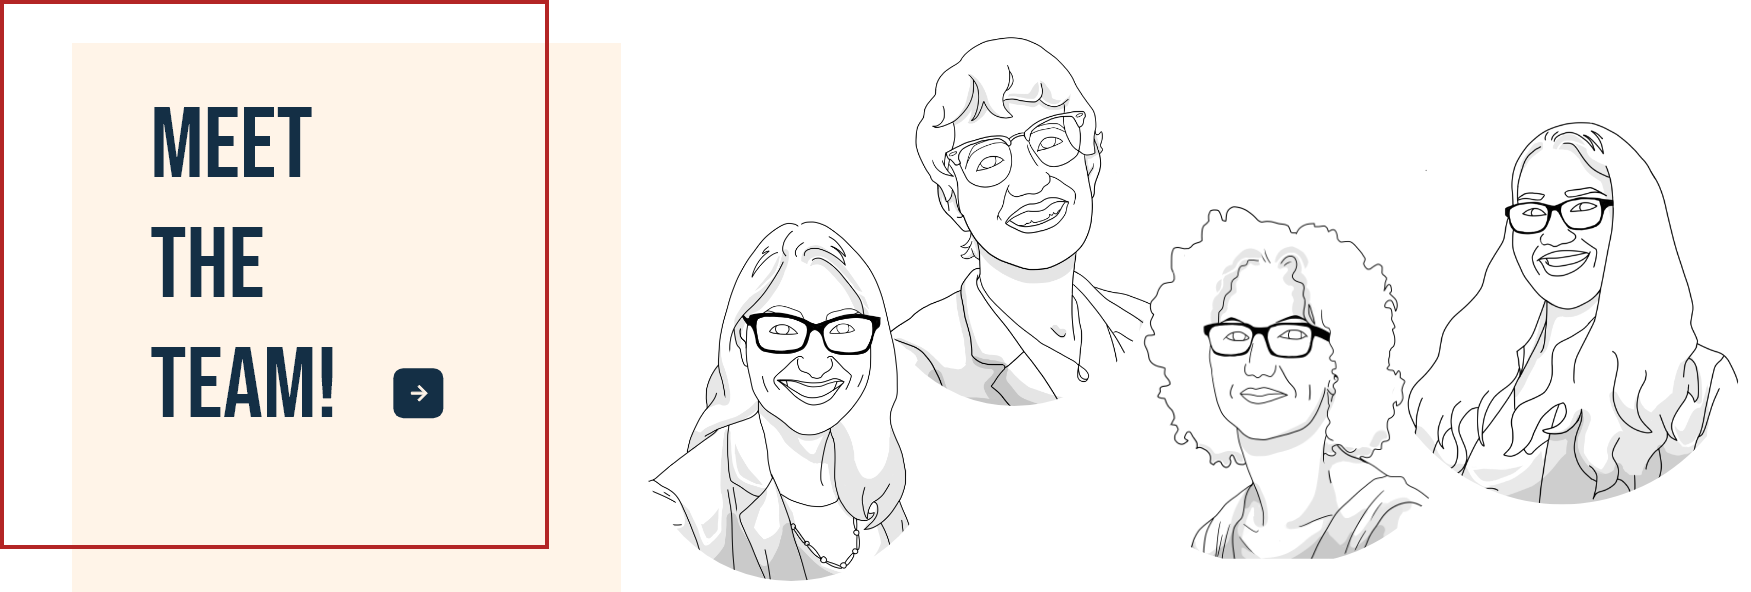
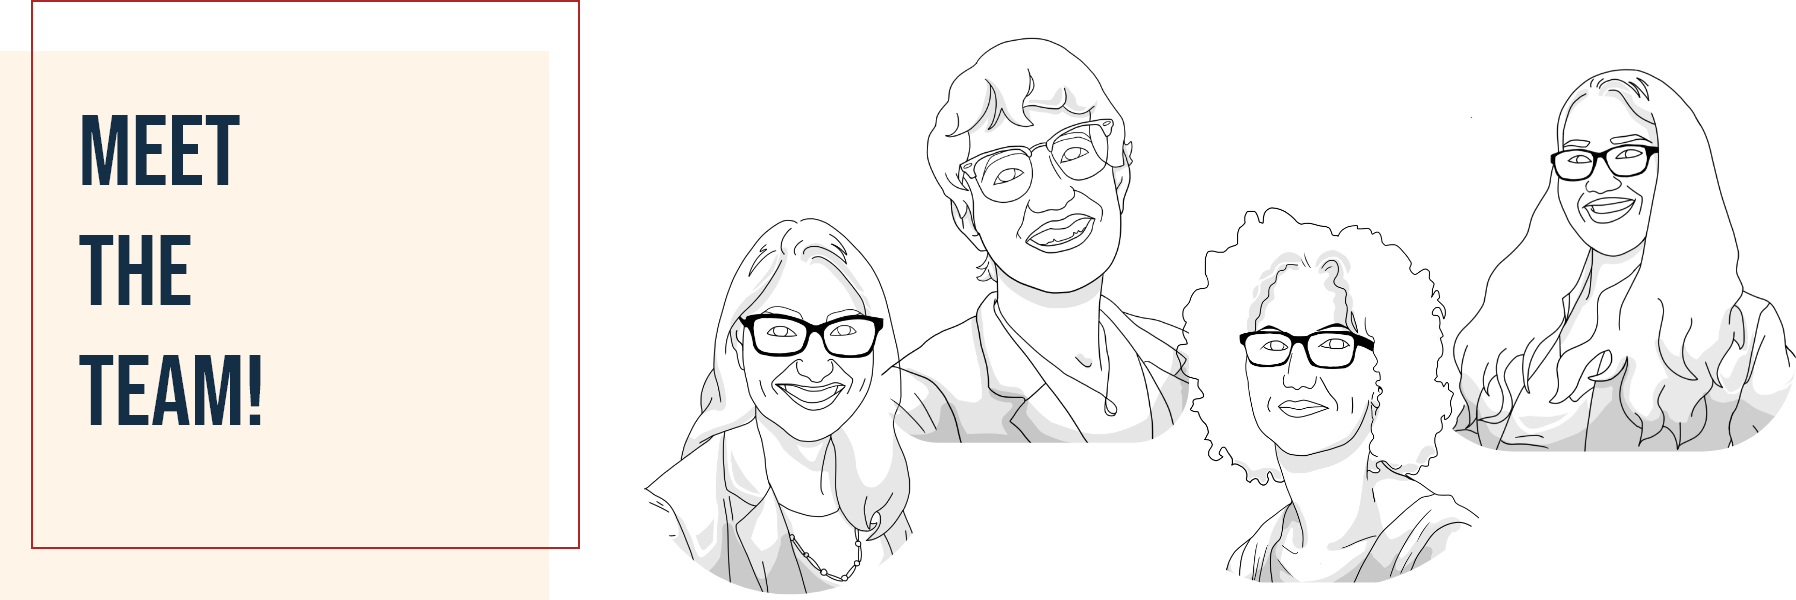
Made some fine tunings

Changed region(s): [[0.0, 0.0, 1.0, 1.0], [0.6785, 0.3345, 0.771, 0.3953]]

diff --git a/src/Pages/AboutProject/About.js b/src/Pages/AboutProject/About.js
@@ -5,6 +5,7 @@ import button from "./res/button.png";
 import chick from './res/chick.png';
 import tl from './res/tl.png';
 import meet from './res/meatteem.png';
+import bottomchart from './res/bottomchart.png';
 
 import axios from '../../config/axios';
 import VARIABLES from "../../config/.env.js";
@@ -19,6 +20,7 @@ function About() {
   const yt = "https://www.youtube.com";
 
   const [aboutBanner_card, setAboutBanner_card] = useState(jack);
+  const [aboutImgCredit, setAboutImgCredit] = useState("JANE DOE");
   const [aboutTimeline_1, setAboutTimeline_1] = useState(jack);
   const [aboutTimeline_2, setAboutTimeline_2] = useState(jack);
   const [aboutTimeline_3, setAboutTimeline_3] = useState(jack);
@@ -40,6 +42,10 @@ function About() {
 
       setAboutBanner_card (
         get("aboutBanner_card")
+      );
+
+      setAboutImgCredit(
+        get("aboutImgCredit")
       );
 
       setAboutTimeline_1 (
@@ -74,9 +80,6 @@ function About() {
       console.log(VARIABLES.axiosBaseURL.slice(0, VARIABLES.axiosBaseURL.length-1));
 
       const get = (section) => {
-        const url = 
-        console.log("Hi");
-        console.log(VARIABLES.axiosBaseURL.slice(0, VARIABLES.axiosBaseURL.length-1) + getWhere(req.data, 'Section', section)[0]["pdf"][0]["url"]);
         return VARIABLES.axiosBaseURL.slice(0, VARIABLES.axiosBaseURL.length-1) + getWhere(req.data, 'Section', section)[0]["pdf"][0]["url"];
       };
 
@@ -112,7 +115,7 @@ function About() {
             {aboutBanner_card}
           </p>
         </div>
-        <div className="aboutBanner_credit"><p>PHOTO BY JANE DOE</p></div>
+        <div className="aboutBanner_credit"><p>PHOTO BY {aboutImgCredit}</p></div>
         <img src={chick} className="aboutBanner_chick"/>
       </div>
     
@@ -144,22 +147,22 @@ function About() {
 
       {/**DOCUMENTS */}
       <div className="aboutDocuments">
-        <a href={aboutDocuments_ddlink}>
+        <a href={aboutDocuments_ddlink} target="_blank">
         <div className="aboutDocuments_item aboutDocuments_design">
           DESIGN DOCUMENTS
         </div>
         </a>
-        <a href={aboutDocuments_cblink}>
+        <a href={aboutDocuments_cblink} target="_blank">
         <div className="aboutDocuments_item aboutDocuments_code">
           CODEBOOK
         </div>
         </a>
-        <a href={aboutDocuments_aplink}>
+        <a href={aboutDocuments_aplink} target="_blank">
         <div className="aboutDocuments_item aboutDocuments_approach">
           APPROACH TO DIGITAL HUMANITIES
         </div>
         </a>
-        <a href={aboutDocuments_frlink}>
+        <a href={aboutDocuments_frlink} target="_blank">
         <div className="aboutDocuments_item aboutDocuments_further">
           FURTHER READING
         </div>
@@ -170,6 +173,11 @@ function About() {
       {/**MEET */}
       <div className="aboutMeet">
         <img src={meet}/>
+      </div>
+
+      {/**BOTTOMCHART */}
+      <div className="aboutChart">
+        <img src={bottomchart}/>
       </div>
     
     </div>

diff --git a/src/Pages/Home/Home.js b/src/Pages/Home/Home.js
@@ -21,7 +21,7 @@ import dots1 from './res/dots1.png';
 import dots2 from './res/dots2.png';
 import dots3 from './res/dots3.png';
 import dots4 from './res/dots4.png';
-import overlaymp4 from './res/overlayvid.mp4';
+//import overlaymp4 from './res/overlayvid.mp4';
 
 import axios from '../../config/axios';
 import VARIABLES from '../../config/.env';
@@ -37,7 +37,7 @@ const urlify = (str) => {
 
 function Home() {
   //temp
-  // const overlaymp4 = "https://www.w3schools.com/html/mov_bbb.mp4";
+  const overlaymp4 = "https://www.w3schools.com/html/mov_bbb.mp4";
 
   const jack = "ALL WORK AND NO PLAY MAKES JACK A DULL BOY. ";
   const [homeAbout_p1, setHomeAbout_p1] = useState(jack+jack);
@@ -45,6 +45,7 @@ function Home() {
   const [homeAbout_p, setHomeAbout_p] = useState(jack+jack);
   const [homeMap_text, setHomeMap_text] = useState(jack+jack+jack);
   const [homeAboutReadmore, setHomeAboutReadmore] = useState(false);
+  const [homeAboutImgCredit, setHomeAboutImgCredit] = useState("Jane Doe");
   const [homeExplore_text, setHomeExplore_text] = useState(jack+jack);
   const [homeButton1_text, setHomeButton1_text] = useState(jack);
   const [homeButton1_link, setHomeButton1_link] = useState('/');
@@ -78,6 +79,10 @@ function Home() {
 
       setHomeAbout_p(
         get("homeAbout_p")
+      )
+
+      setHomeAboutImgCredit(
+        get("aboutImgCredit")
       )
 
       setHomeMap_text(
@@ -249,7 +254,7 @@ function Home() {
           <div className="homeAbout_chicks">
             <img src={aboutpeople}/>
             <div className="homeAbout_imgCred">
-              <p>PHOTO BY JANE DOE</p>
+              <p>PHOTO BY {homeAboutImgCredit}</p>
             </div>
           </div>
           

diff --git a/src/Pages/Home/Map.js b/src/Pages/Home/Map.js
@@ -89,17 +89,17 @@ function Map({mapImg, points}) {
                 <div className="homeMap_popupFeedLeft">
                   <Arrow direction="left" color="#2699FB"/>
                 </div>
-                <a href={pdf1}>
+                <a href={pdf1} target="_blank">
                 <div className="homeMap_popupFeedImg">
                   <img src={mainImage}/>
                 </div>
                 </a>
-                <a href={pdf2}>
+                <a href={pdf2} target="_blank">
                 <div className="homeMap_popupFeedImg">
                   <img src={mainImage}/>
                 </div>
                 </a>
-                <a href={pdf3}>
+                <a href={pdf3} target="_blank">
                 <div className="homeMap_popupFeedImg">
                   <img src={mainImage}/>
                 </div>

diff --git a/src/Pages/Home/Home.css b/src/Pages/Home/Home.css
@@ -151,13 +151,16 @@ ABOUT
   align-items: center;
   font-family: 'babas_neue', 'normal';
   font-size: 36rem;
-  width: 323rem;
+  width: fit-content;
+  min-width: 323rem;
   height: 84rem;
   background-color: var(--colorDarkBlue);
-  margin-left: 676rem;
+  margin-left: 500rem;
   color: var(--colorBeige);
   margin-top: -89rem;
   position: relative;
+  text-align: right;
+  padding: 12rem;
 }
 
 .homeAbout_border {
@@ -385,7 +388,7 @@ BUTTONS
 
 .homeButtons_button1 {
   margin-top: calc(157*var(--xUnit));
-  margin-left: calc(150*var(--xUnit));
+  margin-left: calc(100*var(--xUnit));
 }
 
 .homeButtons_button2 {
@@ -395,7 +398,7 @@ BUTTONS
 
 .homeButtons_button3 {
   margin-top: calc(720*var(--xUnit));
-  margin-left: calc(150*var(--xUnit));
+  margin-left: calc(100*var(--xUnit));
 }
 
 .homeButtons_button4 {

diff --git a/src/Pages/AboutProject/About.css b/src/Pages/AboutProject/About.css
@@ -35,7 +35,7 @@ BANNER
 }
 
 .aboutBanner_credit {
-  width: 323rem;
+  min-width: 323rem;
   height: 84rem;
   background-color: var(--colorDarkBlue);
   color: var(--colorBeige);
@@ -48,6 +48,9 @@ BANNER
   margin-left: -200rem;;
   margin-top: 577rem;
   margin-right: 400rem;
+  width: fit-content;
+  text-align: right;
+  padding: 12rem;
 }
 
 .aboutBanner_credit p {
@@ -162,10 +165,21 @@ MEET
 */
 
 .aboutMeet {
-  margin-bottom: 261.5rem;
+  margin-bottom: 0;
   margin-left: 40rem;
 }
 
 .aboutMeet img {
   width: 1750rem;
+}
+
+.aboutChart {
+  margin-top: 64rem;
+  margin-bottom: 64rem;
+  margin-left: 170rem;
+}
+
+.aboutChart img{
+  width: 1604rem;
+  height: 980rem;
 }

diff --git a/src/Components/Footer/Footer.js b/src/Components/Footer/Footer.js
@@ -43,10 +43,7 @@ function Footer() {
 
       <div className="footer_top">
         <div className="footer_icon">
-          <img src={neh_seal}/> 
           <img src={icon}/>
-        </div>
-        <div className="footer_seal">
         </div>
 
         <div className="footer_home">
@@ -75,6 +72,9 @@ function Footer() {
       </div>
 
       <div className="footer_bot">
+        <div className="footer_seal">
+          <img src={neh_seal}/> 
+        </div>
         {paragraph}
       </div>
     </div>

diff --git a/src/Components/Footer/Footer.css b/src/Components/Footer/Footer.css
@@ -1,10 +1,11 @@
 .footer {
   width: 100vw;
-  height: 600rem;
+  height: fit-content;
   background-color: var(--colorDarkBlue);
   font-family: 'babas_neue';
   padding-top: 146rem;
   padding-left: 108rem;
+  padding-bottom: 60rem;
 }
 
 .footer_top {
@@ -78,4 +79,9 @@
 
   margin-top: 90.9rem;
   margin-left: 328rem;
+}
+
+.footer_seal img {
+  width: 400rem;
+  margin-bottom: 40rem;
 }
